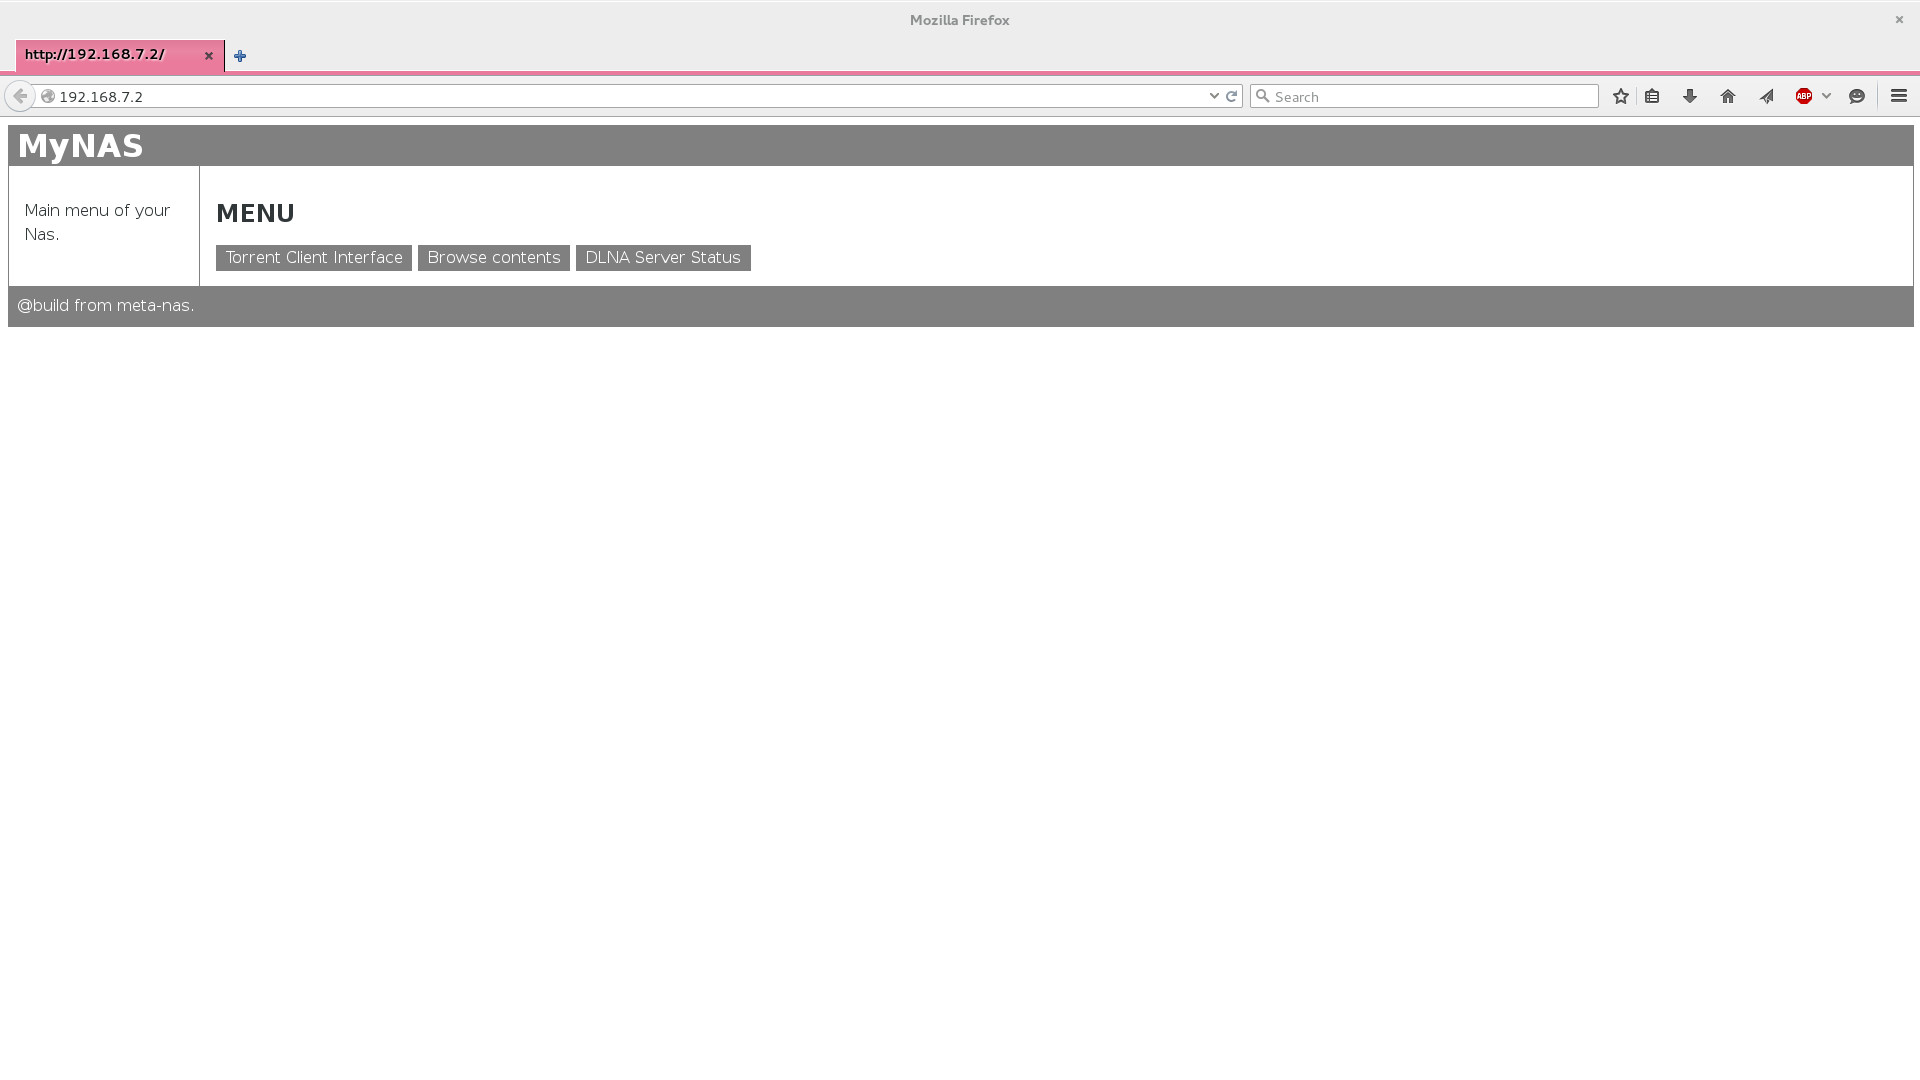
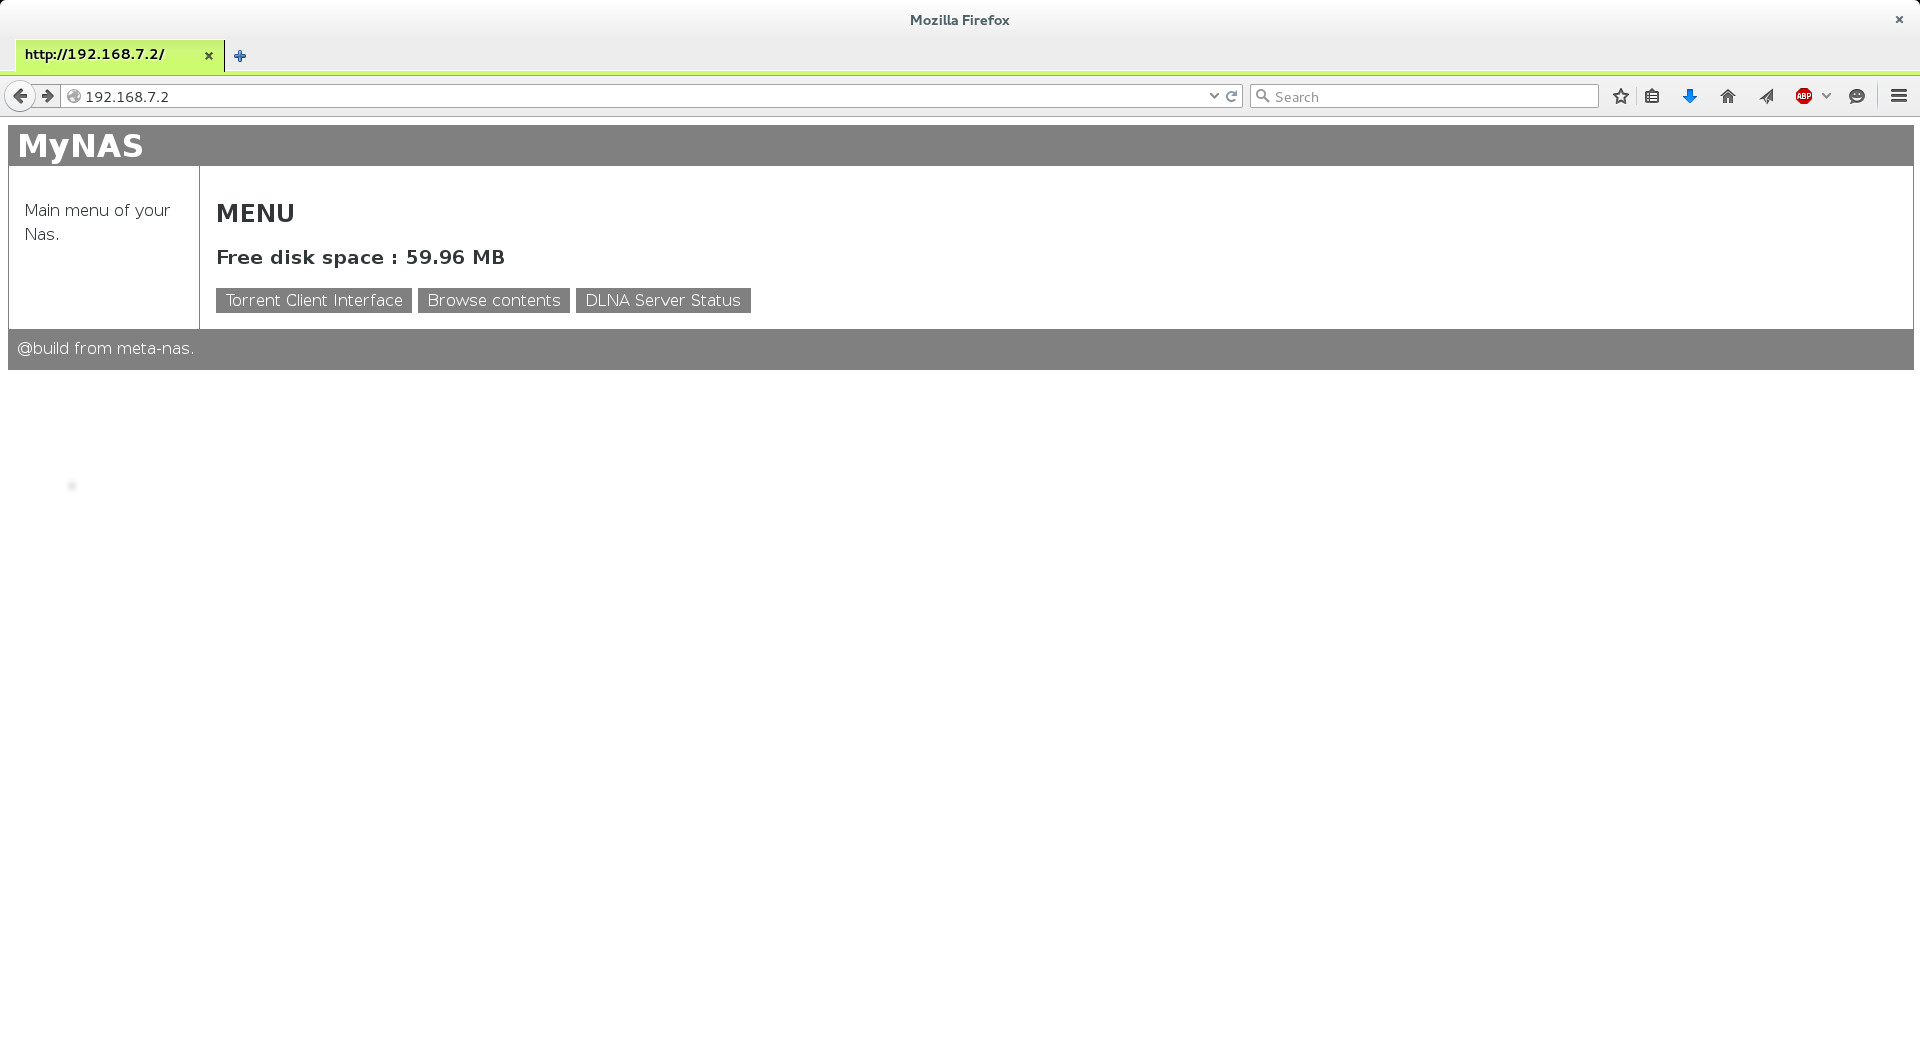
Add Free Space information on the Homepage

Changed region(s): [[0.0, 0.0304, 1.0, 0.3647], [0.4688, 0.0, 0.5312, 0.0304]]

diff --git a/recipes-menunas/menunas/files/index.php b/recipes-menunas/menunas/files/index.php
@@ -69,6 +69,15 @@ li {
   <div class="left"><p>Main menu of your Nas.</p></div>
   <div class="content">
     <h2>MENU</h2>
+<?php
+ echo '<h3> Free disk space : ';
+ $bytes = disk_free_space("/");
+ $units = array( 'B', 'KB', 'MB', 'GB', 'TB' );
+ $base = 1024;
+ $index = min((int)log($bytes , $base) , count($units) - 1);
+ echo sprintf('%1.2f' , $bytes / pow($base,$index)) . ' ' . $units[$index] . '<br />';
+ echo '</h3>';
+?>
 <ul>
 <li><a href="#" onclick="javascript:window.location.port=9091">Torrent Client Interface</a></li>
 <li><a href="./filemanager">Browse contents</a></li>
